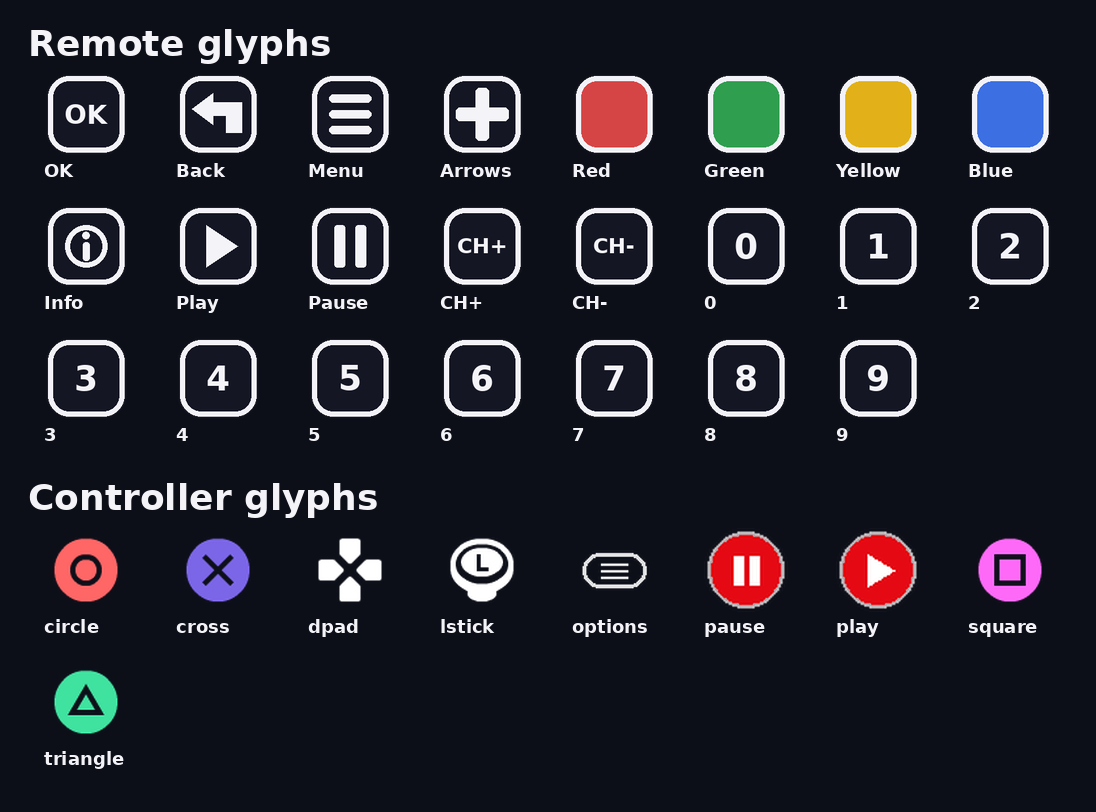
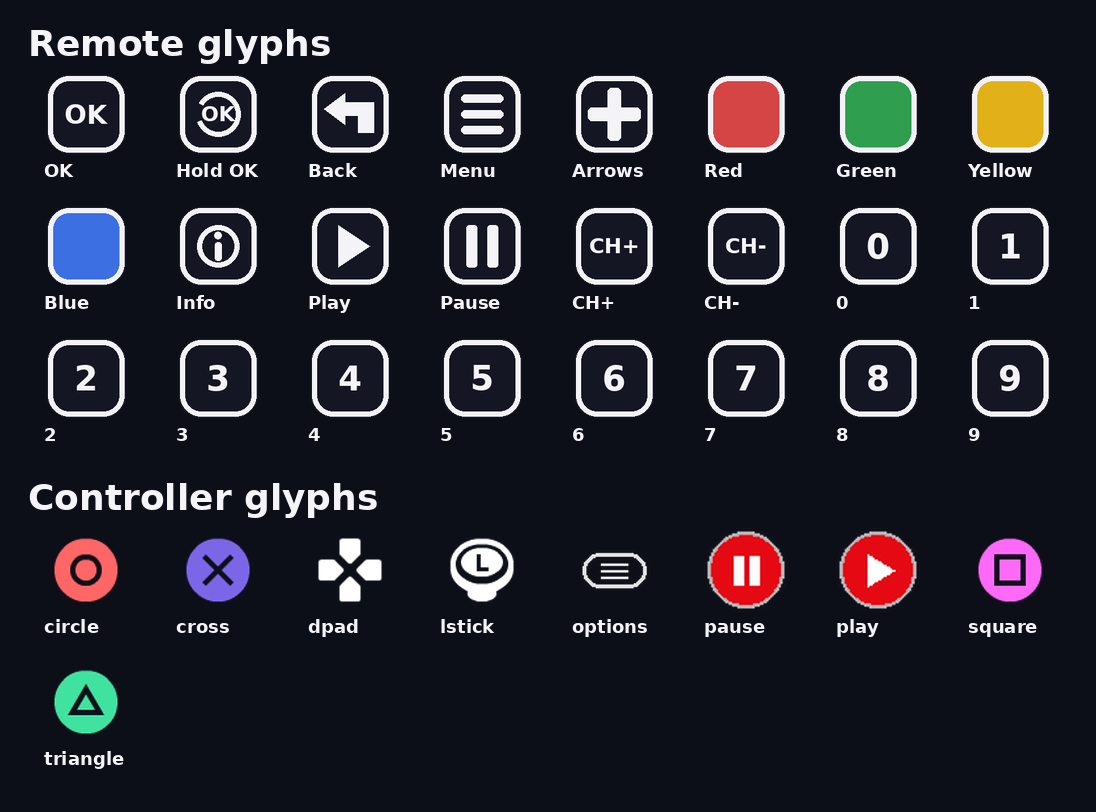
Show Hold OK until a remote Menu key arrives
Remotes without a Menu key no longer get a Menu hint. The action list
hint is Hold OK until code 18, code 27, or the Options bit is seen.
A short Menu press still toggles stats when that key exists.

diff --git a/scripts/ps5-text-input.js b/scripts/ps5-text-input.js
@@ -5,7 +5,7 @@ import { addonRepository } from '../../data/repository/addonRepository.js';
 import { catalogRepository } from '../../data/repository/catalogRepository.js';
 import { buildSearchTargets } from '../screens/search/searchCatalogTargets.js';
 import { filterReleasedItems } from '../../core/util/releaseInfoUtils.js';
-import { inputDevice, installInputDevice, remoteGlyphName, remoteGlyphSvg } from './input-device.js';
+import { inputDevice, installInputDevice, remoteGlyphName, remoteGlyphSvg, remoteMenuSeen } from './input-device.js';
 
 // SVG adaptation of ps5-homebrew-ui's ui/glyphs.cpp, pinned in deps.lock.
 // Copyright (C) 2026 BlackBearReloaded. SPDX-License-Identifier: GPL-3.0-or-later.
@@ -445,15 +445,19 @@ export function refreshPs5HintBar() {
       }
       return;
     }
-    const sig = inputDevice() + '|' + hints.map(([g, l]) => g + ':' + l).join('|');
+    const sig = inputDevice() + (remoteMenuSeen() ? ':menu' : '') + '|' +
+      hints.map(([g, l]) => g + ':' + l).join('|');
     if (sig === hintBarSignature && !hintBarNode.hidden) return;
     hintBarSignature = sig;
     hintBarNode.hidden = false;
     hintBarNode.innerHTML = hints.map(([glyph, label]) => {
+      const holdOk = inputDevice() === 'remote' && !remoteMenuSeen() && label === 'Menu' &&
+        (glyph === 'Options' || glyph === 'TouchPad');
       const cls = glyph === 'TouchPad' || glyph.includes('/') ? 'ps5-control-glyph wide' :
-        glyph === 'Options' ? 'ps5-control-glyph narrow' : 'ps5-control-glyph';
+        glyph === 'Options' && !holdOk && inputDevice() !== 'remote' ? 'ps5-control-glyph narrow' :
+        'ps5-control-glyph';
       return '<span class="ps5-control-hint"><span class="' + cls + '" aria-hidden="true">' +
-        ps5GlyphSvg(glyph) + '</span><span>' + label + '</span></span>';
+        ps5GlyphSvg(glyph) + '</span><span>' + (holdOk ? 'Hold OK' : label) + '</span></span>';
     }).join('');
   });
 }
@@ -468,10 +472,12 @@ export function initPs5HintBar() {
   hintBarNode.hidden = true;
   document.body.appendChild(hintBarNode);
   installInputDevice();
-  window.addEventListener('nuvio-input-device', () => {
+  const redrawHints = () => {
     hintBarSignature = '';
     refreshPs5HintBar();
-  });
+  };
+  window.addEventListener('nuvio-input-device', redrawHints);
+  window.addEventListener('nuvio-remote-menu', redrawHints);
   const trigger = () => refreshPs5HintBar();
   window.addEventListener('hashchange', trigger, true);
   window.addEventListener('popstate', trigger, true);

diff --git a/scripts/input-device.js b/scripts/input-device.js
@@ -16,14 +16,29 @@ export function noteInputDevice(state, source, now) {
 }
 
 const live = createInputDevice();
+let menuSeen = false;
 
 export function inputDevice() {
   return live.device;
 }
 
+export function remoteMenuSeen() {
+  return menuSeen;
+}
+
+/** Remember a real Menu or context-menu key for the rest of this page. */
+export function noteRemoteMenu() {
+  if (menuSeen) return;
+  menuSeen = true;
+  if (typeof window !== 'undefined' && typeof window.dispatchEvent === 'function') {
+    window.dispatchEvent(new CustomEvent('nuvio-remote-menu'));
+  }
+}
+
 export function installInputDevice() {
   if (typeof window === 'undefined') return;
   window.__NUVIO_INPUT_DEVICE__ = live.device;
+  window.__nuvioNoteRemoteMenu = () => noteRemoteMenu();
   window.__nuvioNoteInput = (source, now) => {
     const before = live.device;
     noteInputDevice(live, source, now);
@@ -50,8 +65,13 @@ const REMOTE_FOR = {
   R3: 'blue'
 };
 
-export function remoteGlyphName(controllerName) {
+export function remoteGlyphFor(controllerName, menuSeenNow) {
+  if (!menuSeenNow && (controllerName === 'Options' || controllerName === 'TouchPad')) return 'hold-ok';
   return REMOTE_FOR[controllerName] || 'ok';
+}
+
+export function remoteGlyphName(controllerName) {
+  return remoteGlyphFor(controllerName, menuSeen);
 }
 
 const PAPER = '#141624';
@@ -77,6 +97,13 @@ export function remoteGlyphSvg(name) {
   if (name === 'blue') return frame('#3b6fe2', '');
   if (name === 'back') {
     return frame(PAPER, '<polygon points="12,28 28,16 28,23 50,23 50,46 38,46 38,33 28,33 28,40" fill="' + LIGHT + '"/>');
+  }
+  if (name === 'hold-ok') {
+    return frame(PAPER,
+      '<path d="M32 15 a17 17 0 1 1 -14 24" fill="none" stroke="' + LIGHT +
+      '" stroke-width="4" stroke-linecap="round"/>' +
+      '<text x="32" y="37" text-anchor="middle" font-family="sans-serif" font-size="16" font-weight="800" fill="' +
+      LIGHT + '">OK</text>');
   }
   if (name === 'menu') {
     return frame(PAPER,

diff --git a/scripts/ps5-navigation.js b/scripts/ps5-navigation.js
@@ -3,6 +3,7 @@
 import { Router } from './routerState.js';
 import { NuvioDialog } from '../components/nuvioDialog.js';
 import { initPs5HintBar, initPs5SearchKeyboard, refreshPs5HintBar, requestPs5SearchKeyboard } from './ps5-text-input.js';
+import { noteRemoteMenu } from './input-device.js';
 import { startPs5TvRemoteDiagnostics } from './ps5-tv-remote.js';
 
 function visible(node) {
@@ -491,6 +492,7 @@ export function initPs5Navigation() {
       try {
         const next = JSON.parse(request.responseText);
         if (!Number.isInteger(next.options) || !Number.isInteger(next.menu)) { previous = null; return; }
+        if (next.remoteMenu === 1) noteRemoteMenu();
         if (previous) {
           if (next.menu !== previous.menu) window.dispatchEvent(new Event('nuvio:controller-menu'));
           if (next.options !== previous.options) window.dispatchEvent(new Event('nuvio:options'));

diff --git a/tests/test_native_remote.py b/tests/test_native_remote.py
@@ -73,8 +73,11 @@ void evo_updater_download() { assert(false); }
 void settingsFocusUpdateRow() {}
 namespace hui { namespace ui {
 static int glyphMode = 0;
+static int menuSeen = 0;
 void set_remote_glyphs(bool on) { glyphMode = on ? 1 : 0; }
+void set_remote_menu_seen(bool on) { menuSeen = on ? 1 : 0; }
 int remote_glyph_mode_for_test() { return glyphMode; }
+int remote_menu_seen_for_test() { return menuSeen; }
 }}
 namespace evo { namespace animation {
 struct AnimationManager {
@@ -385,6 +388,26 @@ void remote_user_remap() {
     std::remove(NUVIO_REMOTE_LEARN_PATH);
 }
 
+void glyph_menu() {
+    Fixture f;
+    remoteState.unknown[3] = 13; f.frame(1000);
+    assert(hui::ui::remote_menu_seen_for_test() == 0);
+    remoteState.unknown[3] = 18; f.frame(1400);
+    assert(hui::ui::remote_menu_seen_for_test() == 1);
+}
+
+void glyph_menu_code() {
+    Fixture f;
+    remoteState.unknown[3] = 27; f.frame(1000);
+    assert(hui::ui::remote_menu_seen_for_test() == 1);
+}
+
+void glyph_menu_bit() {
+    Fixture f;
+    remoteState.buttons = Options; f.frame(1000);
+    assert(hui::ui::remote_menu_seen_for_test() == 1);
+}
+
 void glyph_switch() {
     Fixture f;
     controllerState.buttons = Cross; f.frame(1000);
@@ -519,7 +542,8 @@ class NativeRemoteTests(unittest.TestCase):
                  for name in ('baseline_remote_only', 'remote_only', 'failed_controller', 'overlap', 'asymmetric_directions',
                               'disconnect', 'acquisition', 'browser_ownership', 'remote_codes',
                               'remote_direct_actions', 'remote_action_menu', 'remote_learn_mode',
-                              'remote_user_remap', 'glyph_switch',
+                              'remote_user_remap', 'glyph_switch', 'glyph_menu',
+                              'glyph_menu_code', 'glyph_menu_bit',
                               'keyboard_and_nonplayer', 'controller_unchanged')) + '\n    return 2;\n}\n')
         # The orb's target Clang lacks host ASan runtimes. GCC ships them.
         compiler = shutil.which('g++') or shutil.which('clang++') or shutil.which('c++')
@@ -586,6 +610,15 @@ class NativeRemoteTests(unittest.TestCase):
 
     def test_glyphs_follow_the_last_device_and_ignore_a_stray_press(self):
         self.run_case('glyph_switch')
+
+    def test_ok_does_not_reveal_the_menu_glyph_but_code_18_does(self):
+        self.run_case('glyph_menu')
+
+    def test_context_menu_code_reveals_the_menu_glyph(self):
+        self.run_case('glyph_menu_code')
+
+    def test_remote_options_bit_reveals_the_menu_glyph(self):
+        self.run_case('glyph_menu_bit')
 
     def test_keyboard_navigation_and_transport_scope(self):
         self.run_case('keyboard_and_nonplayer')

diff --git a/scripts/native_remote.py b/scripts/native_remote.py
@@ -207,7 +207,10 @@ RECEIVER = r'''
 #include <cstdlib>
 #include <cstring>
 #include <unistd.h>
-namespace hui { namespace ui { void set_remote_glyphs(bool on); } }
+namespace hui { namespace ui {
+void set_remote_glyphs(bool on);
+void set_remote_menu_seen(bool on);
+} }
 #ifndef NUVIO_REMOTE_LEARN_PATH
 #define NUVIO_REMOTE_LEARN_PATH "/data/nuvio/remote-learn"
 #endif
@@ -263,6 +266,7 @@ class NuvioTvRemote {
     uint64_t mapCheckAt = 0;
     bool openChapters = false;
     bool hadPress = false;
+    bool sawMenu = false;
     uint32_t trackedButtons = 0;
     uint8_t trackedCode = 0;
 
@@ -435,6 +439,7 @@ class NuvioTvRemote {
 public:
     uint32_t buttons() const { return previous; }
     bool pressed() const { return hadPress; }
+    bool menuSeen() const { return sawMenu; }
 
     void shutdown() {
         detach();
@@ -511,6 +516,7 @@ public:
         using namespace evo::PadButtons;
         uint32_t basic = state.buttons & (Up | Down | Left | Right | Cross | Circle | Options);
         const uint8_t code = state.unknown[3];
+        if (code == 18 || code == 27 || (state.buttons & Options)) sawMenu = true;
         if (code != 0 && code != 13 && code != 15 && code != 18 && code != 43)
             bindCode = code;
         showLearn(code, state.buttons);
@@ -570,6 +576,7 @@ const NuvioTvRemote::Name NuvioTvRemote::kNames[] = {
 };
 const int NuvioTvRemote::kNameCount = sizeof(NuvioTvRemote::kNames) / sizeof(NuvioTvRemote::kNames[0]);
 static NuvioTvRemote s_nuvioRemote;
+extern "C" int nuvio_remote_menu_seen(void) { return s_nuvioRemote.menuSeen() ? 1 : 0; }
 
 '''
 
@@ -594,6 +601,7 @@ INPUT_GATE = '''        // Read the remote independently, even without a DualSen
             else if (controllerEdge) { remoteGlyphs = false; glyphBlock = glyphNow + 200; }
         }
         hui::ui::set_remote_glyphs(remoteGlyphs);
+        hui::ui::set_remote_menu_seen(s_nuvioRemote.menuSeen());
         if (!controllerRead) {
             // Failed reads may partially fill the struct. Neutralize every
             // non-button input: zero sticks would synthesize Up/Left forever.

diff --git a/tests/test_input_device.py b/tests/test_input_device.py
@@ -9,7 +9,7 @@ ROOT = Path(__file__).resolve().parents[1]
 class InputDeviceTests(unittest.TestCase):
     def test_switch_and_debounce(self):
         script = r'''
-import { createInputDevice, noteInputDevice, remoteGlyphName, remoteGlyphSvg } from "../scripts/input-device.js";
+import { createInputDevice, noteInputDevice, remoteGlyphFor, remoteGlyphSvg } from "../scripts/input-device.js";
 const state = createInputDevice(0);
 if (state.device !== "controller") throw new Error("default");
 noteInputDevice(state, "remote", 1000);
@@ -18,14 +18,18 @@ noteInputDevice(state, "controller", 1100);
 if (state.device !== "remote") throw new Error("debounce");
 noteInputDevice(state, "controller", 1200);
 if (state.device !== "controller") throw new Error("later");
-if (remoteGlyphName("Cross") !== "ok" || remoteGlyphName("Circle") !== "back") throw new Error("map");
-if (remoteGlyphName("Triangle") !== "yellow" || remoteGlyphName("R2") !== "red") throw new Error("colour");
+if (remoteGlyphFor("Cross", false) !== "ok" || remoteGlyphFor("Circle", false) !== "back") throw new Error("map");
+if (remoteGlyphFor("Options", false) !== "hold-ok" || remoteGlyphFor("TouchPad", false) !== "hold-ok") throw new Error("hold");
+if (remoteGlyphFor("Options", true) !== "menu") throw new Error("menu");
+if (remoteGlyphFor("Triangle", false) !== "yellow" || remoteGlyphFor("R2", false) !== "red") throw new Error("colour");
 const svg = remoteGlyphSvg("red");
 if (!svg.includes("#d64545") || !svg.includes("<svg")) throw new Error("svg");
 if (!remoteGlyphSvg("play").includes("<polygon")) throw new Error("play");
 if ((remoteGlyphSvg("pause").match(/<rect/g) || []).length < 3) throw new Error("pause");
 if (!remoteGlyphSvg("info").includes("<circle")) throw new Error("info");
 if (!remoteGlyphSvg("arrows").includes("<rect")) throw new Error("arrows");
+const hold = remoteGlyphSvg("hold-ok");
+if (!hold.includes(">OK<") || !hold.includes("stroke")) throw new Error("hold-ok");
 console.log("ok");
 '''
         path = ROOT / 'tests' / '_input_device_check.mjs'

diff --git a/scripts/polish.py b/scripts/polish.py
@@ -1396,17 +1396,18 @@ def patch_controller_hook(source):
     anchor='static char s_hook_profile[16];'
     if source.count(anchor)!=1:
         raise RuntimeError('Pinned controller state anchor changed')
-    source=source.replace(anchor, anchor+'\nstatic uint32_t s_controller_options, s_controller_menu, s_controller_navigation, s_controller_keyboard;\nstatic int s_controller_direction, s_controller_shortcut;')
+    source=source.replace(anchor, anchor+'\nstatic uint32_t s_controller_options, s_controller_menu, s_controller_navigation, s_controller_keyboard;\nstatic int s_controller_direction, s_controller_shortcut;\nint nuvio_remote_menu_seen(void);')
     anchor='    } else if (!strncmp(path, "/evo/close", 10)) {'
     if source.count(anchor)!=1:
         raise RuntimeError('Pinned controller endpoint anchor changed')
     source=source.replace(anchor, '''    } else if (!strcmp(path, "/evo/controller")) {
-        char body[160];
+        char body[192];
         pthread_mutex_lock(&s_mx);
-        int n = snprintf(body, sizeof body, "{\\"options\\":%u,\\"menu\\":%u,\\"navigation\\":%u,\\"direction\\":%d,\\"keyboard\\":%u,\\"shortcut\\":%d}",
+        int n = snprintf(body, sizeof body, "{\\"options\\":%u,\\"menu\\":%u,\\"navigation\\":%u,\\"direction\\":%d,\\"keyboard\\":%u,\\"shortcut\\":%d,\\"remoteMenu\\":%u}",
                          (unsigned)s_controller_options, (unsigned)s_controller_menu,
                          (unsigned)s_controller_navigation, s_controller_direction,
-                         (unsigned)s_controller_keyboard, s_controller_shortcut);
+                         (unsigned)s_controller_keyboard, s_controller_shortcut,
+                         (unsigned)nuvio_remote_menu_seen());
         pthread_mutex_unlock(&s_mx);
         respond(fd, "200 OK", "application/json", body, (size_t)n);
 '''+anchor)

diff --git a/scripts/render_input_glyphs.py b/scripts/render_input_glyphs.py
@@ -89,6 +89,13 @@ def info():
     return image
 
 
+def hold_ok():
+    image, draw = key(PAPER)
+    draw.arc((u(15), u(15), u(49), u(49)), start=210, end=520, fill=LIGHT, width=int(u(4)))
+    label(draw, 'OK', 16, LIGHT)
+    return image
+
+
 def menu():
     image, draw = key(PAPER)
     for top in (17, 29, 41):
@@ -111,6 +118,7 @@ def main():
     OUT.mkdir(parents=True, exist_ok=True)
     made = {
         'btn_remote_ok.png': word('OK', 20),
+        'btn_remote_hold_ok.png': hold_ok(),
         'btn_remote_back.png': back(),
         'btn_remote_menu.png': menu(),
         'btn_remote_arrows.png': arrows(),
@@ -141,10 +149,11 @@ def main():
                     controllers.append((path.stem.replace('btn_', ''), Image.open(path).convert('RGBA')))
     controllers.sort()
 
-    order = ['ok', 'back', 'menu', 'arrows', 'red', 'green', 'yellow', 'blue', 'info', 'play', 'pause',
+    order = ['ok', 'hold_ok', 'back', 'menu', 'arrows', 'red', 'green', 'yellow', 'blue', 'info', 'play', 'pause',
              'ch_up', 'ch_down'] + [str(n) for n in range(10)]
     names = {
-        'ok': 'OK', 'back': 'Back', 'menu': 'Menu', 'arrows': 'Arrows', 'red': 'Red', 'green': 'Green',
+        'ok': 'OK', 'hold_ok': 'Hold OK', 'back': 'Back', 'menu': 'Menu', 'arrows': 'Arrows',
+        'red': 'Red', 'green': 'Green',
         'yellow': 'Yellow', 'blue': 'Blue', 'info': 'Info', 'play': 'Play', 'pause': 'Pause',
         'ch_up': 'CH+', 'ch_down': 'CH-',
     }

diff --git a/scripts/input_glyphs.py b/scripts/input_glyphs.py
@@ -27,7 +27,9 @@ def patch_hud_glyphs(kit):
              '                 const Hint *hints, int count, float x, bool right_align,\n'
              '                 const HintLayout &layout = {});\n'
              'void set_remote_glyphs(bool on);\n'
-             'bool remote_glyphs();\n',
+             'bool remote_glyphs();\n'
+             'void set_remote_menu_seen(bool on);\n'
+             'bool remote_menu_seen();\n',
              'glyph header')
     inc = (ROOT / 'scripts/remote_glyph_draw.inc').read_text()
     _replace(source, 'float button_width(Button button, float size)\n{',

diff --git a/tests/test_nuvio.py b/tests/test_nuvio.py
@@ -317,6 +317,7 @@ static void respond(int fd, const char *status, const char *type, const char *bo
     last_body[n] = 0;
 }
 static void tlog(const char *fmt, ...) { (void)fmt; }
+int nuvio_remote_menu_seen(void) { return 0; }
 static void evo_webui_controller(int options, int menu, int direction, int shortcut);
 ''' + emitted.split('static char s_hook_profile[16];', 1)[1] + r'''
 int main(void) {

diff --git a/docs/ARCHITECTURE.md b/docs/ARCHITECTURE.md
@@ -472,8 +472,9 @@ Read failures release remote input. Recovery requires a neutral state and uses a
 Browser ownership suspends the native receiver. Cleanup closes owned handles, not borrowed handles.
 Basic arrows, OK, Back and Menu are mapped. Supported transport codes reuse existing playback actions.
 Dedicated Play resumes playback. Dedicated Pause pauses playback. Neither key toggles.
-Hold OK or Menu for 700 ms in the player to open the action list.
-A short Menu press still toggles stats.
+Hold OK for 700 ms in the player to open the action list.
+A short Menu press still toggles stats when that remote has a Menu key.
+Hints show Hold OK until a Menu or context-menu code arrives.
 Guide opens the chapter list when the title has chapters.
 Red opens audio, green opens subtitles, yellow skips, and blue goes next.
 Create an empty `/data/nuvio/remote-learn` file to pin the last raw code on screen.

diff --git a/docs/VALIDATION.md b/docs/VALIDATION.md
@@ -5492,6 +5492,8 @@ The same code then opens the subtitle picker.
 A remote press switches hints to the remote set. A controller press within 200 ms does not switch back.
 The sheet is [input-glyphs-preview.png](input-glyphs-preview.png).
 Play, pause, arrows, back and info are shapes on that sheet.
+OK does not reveal the Menu glyph. Code 18, code 27, and the Options bit do.
+The sheet includes Hold OK.
 Console glyph switching on firmware 12.70 remains pending.
 The owner's earlier D-pad, OK, Back, Menu and transport checks on firmware 12.70 still describe the unchanged short-press mappings.
 The new keys and the learn line remain unverified on firmware 12.70.
